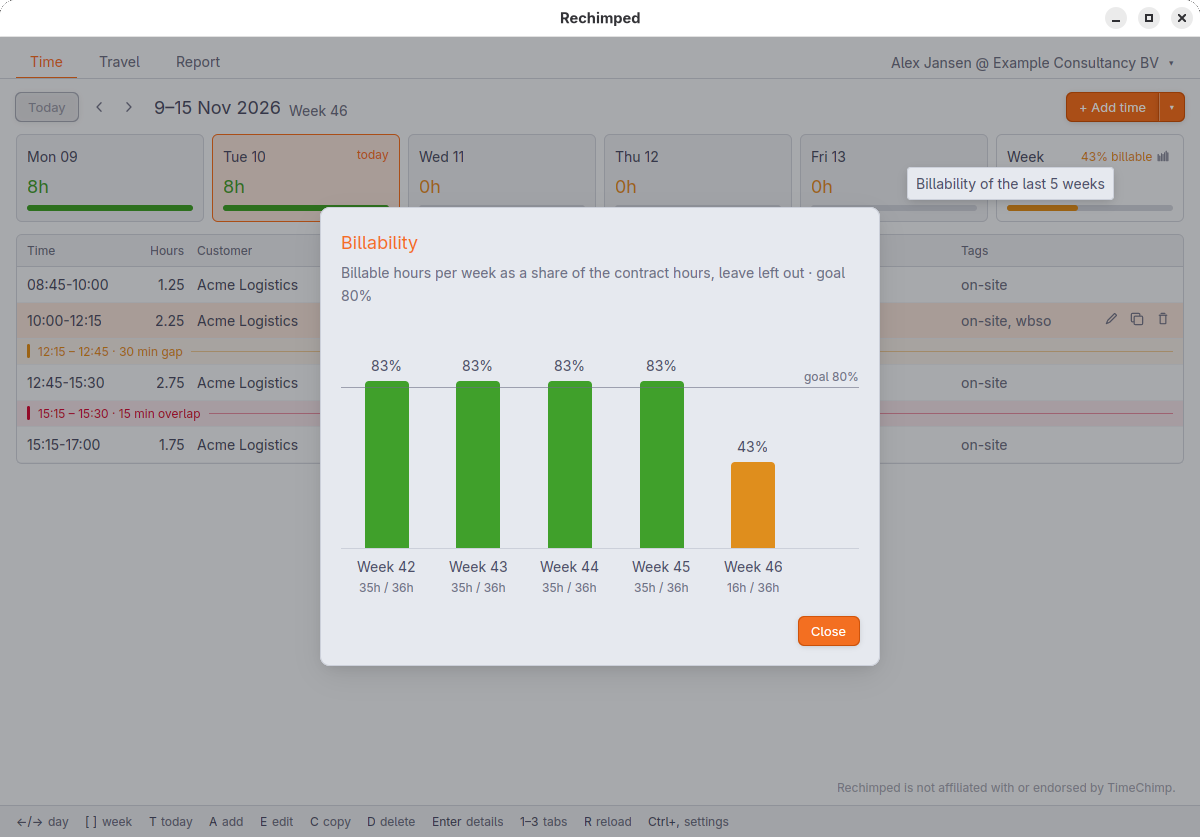
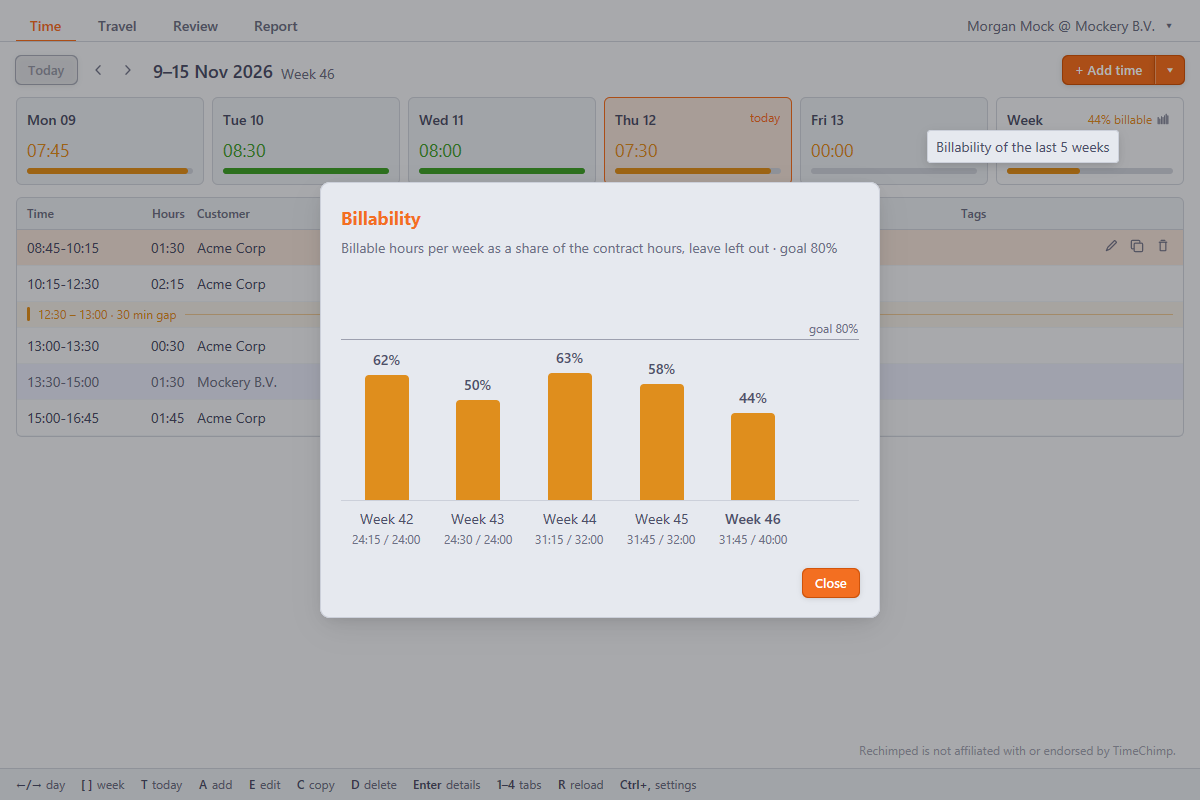
Retake the README screenshots from the mock backend
They show the tab strip with Review before Report. The mock's week has
no overlap, so the Time tab's caption names the rejected entry instead.

diff --git a/README.md b/README.md
@@ -3,7 +3,7 @@
 A small desktop app for viewing and editing your own TimeChimp time entries and travel, without
 going through the web app.
 
-![The Time tab: a week of entries with day totals, the billable share, and a gap and an overlap marked](docs/screenshots/week.png)
+![The Time tab: a week of entries with day totals, the billable share, gaps marked and a rejected entry flagged](docs/screenshots/week.png)
 
 - **Time**: your week day by day, with add, edit, copy and delete, a "Recent" picker, preset
   entries, and gaps and overlaps between entries marked. It also shows a weekly billable
